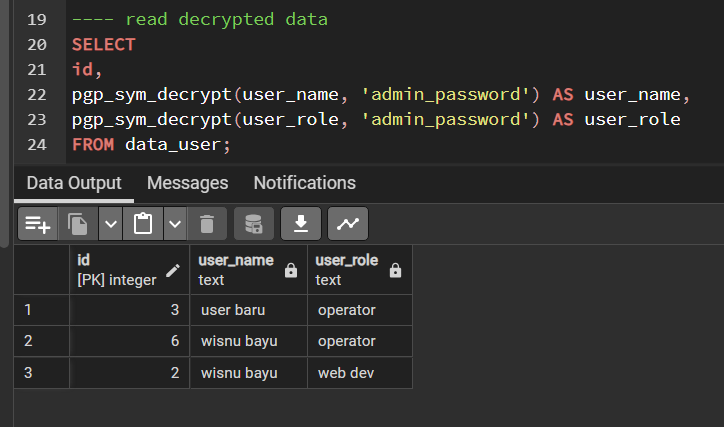
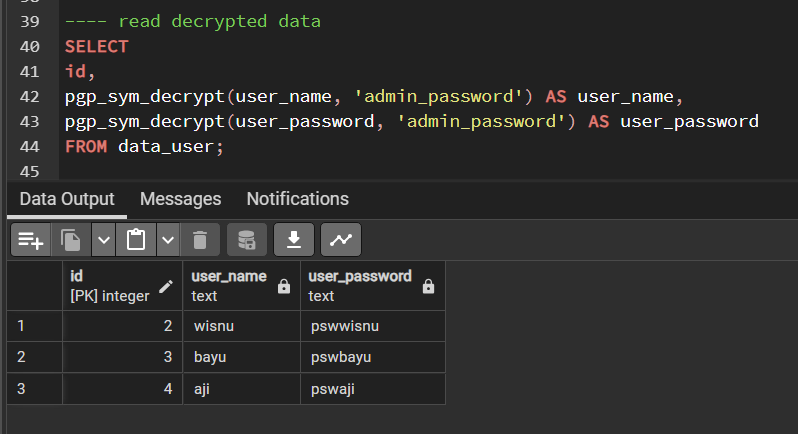
rename user_password

Changed region(s): [[0.0, 0.0, 0.9724, 1.0], [0.547, 0.822, 0.5773, 0.9133], [0.547, 0.7611, 0.5773, 0.7916]]

diff --git a/main.py b/main.py
@@ -28,13 +28,13 @@ class MyRequestHandler(BaseHTTPRequestHandler):
         cursor.execute("""
                        SELECT id, 
                        pgp_sym_decrypt(user_name, %s) as user_name, 
-                       pgp_sym_decrypt(user_role, %s) as user_name
+                       pgp_sym_decrypt(user_password, %s) as user_name
                        FROM data_user
                        """, (ADMIN_PASSWORD, ADMIN_PASSWORD))
 
         user = []
         for row in cursor:
-            user.append({"id": row[0], "user_name": row[1], "user_role": row[2]})
+            user.append({"id": row[0], "user_name": row[1], "user_password": row[2]})
 
         cursor.close()
         connection.close()
@@ -50,7 +50,7 @@ class MyRequestHandler(BaseHTTPRequestHandler):
         data = json.loads(body)
 
         user_name = data.get('user_name')
-        user_role = data.get('user_role')
+        user_password = data.get('user_password')
 
         try:
             connection = psycopg2.connect(host=DB_HOST, dbname=DB_NAME, user=DB_USER, password=DB_PASSWORD)
@@ -63,9 +63,9 @@ class MyRequestHandler(BaseHTTPRequestHandler):
         cursor = connection.cursor()
 
         cursor.execute("""
-                       INSERT INTO data_user (user_name, user_role) 
+                       INSERT INTO data_user (user_name, user_password) 
                        VALUES (encrypt_data(%s, %s), encrypt_data(%s, %s))
-                       """, (user_name, ADMIN_PASSWORD, user_role, ADMIN_PASSWORD))
+                       """, (user_name, ADMIN_PASSWORD, user_password, ADMIN_PASSWORD))
         connection.commit()
 
         cursor.close()
@@ -87,7 +87,7 @@ class MyRequestHandler(BaseHTTPRequestHandler):
             data = json.loads(body)
 
             updated_user_name = data.get('user_name')
-            updated_user_role = data.get('user_role')
+            updated_user_password = data.get('user_password')
 
             try:
                 connection = psycopg2.connect(host=DB_HOST, dbname=DB_NAME, user=DB_USER, password=DB_PASSWORD)
@@ -103,9 +103,9 @@ class MyRequestHandler(BaseHTTPRequestHandler):
                            UPDATE data_user 
                            SET 
                            user_name = encrypt_data(%s, %s) ,
-                           user_role = encrypt_data(%s, %s)
+                           user_password = encrypt_data(%s, %s)
                            WHERE id = %s
-                           """, (updated_user_name, ADMIN_PASSWORD, updated_user_role, ADMIN_PASSWORD, user_id))
+                           """, (updated_user_name, ADMIN_PASSWORD, updated_user_password, ADMIN_PASSWORD, user_id))
             connection.commit()
 
             cursor.close()

diff --git a/README.md b/README.md
@@ -33,9 +33,7 @@
 
     ![delete](screenshot/delete.png)
 
-## Pengaplikasian Enkripsi AES256
-
-### Perbandingan Select Data
+## Contoh Pengaplikasian Enkripsi AES256
 
 -   Jika tidak memasukan password
 
